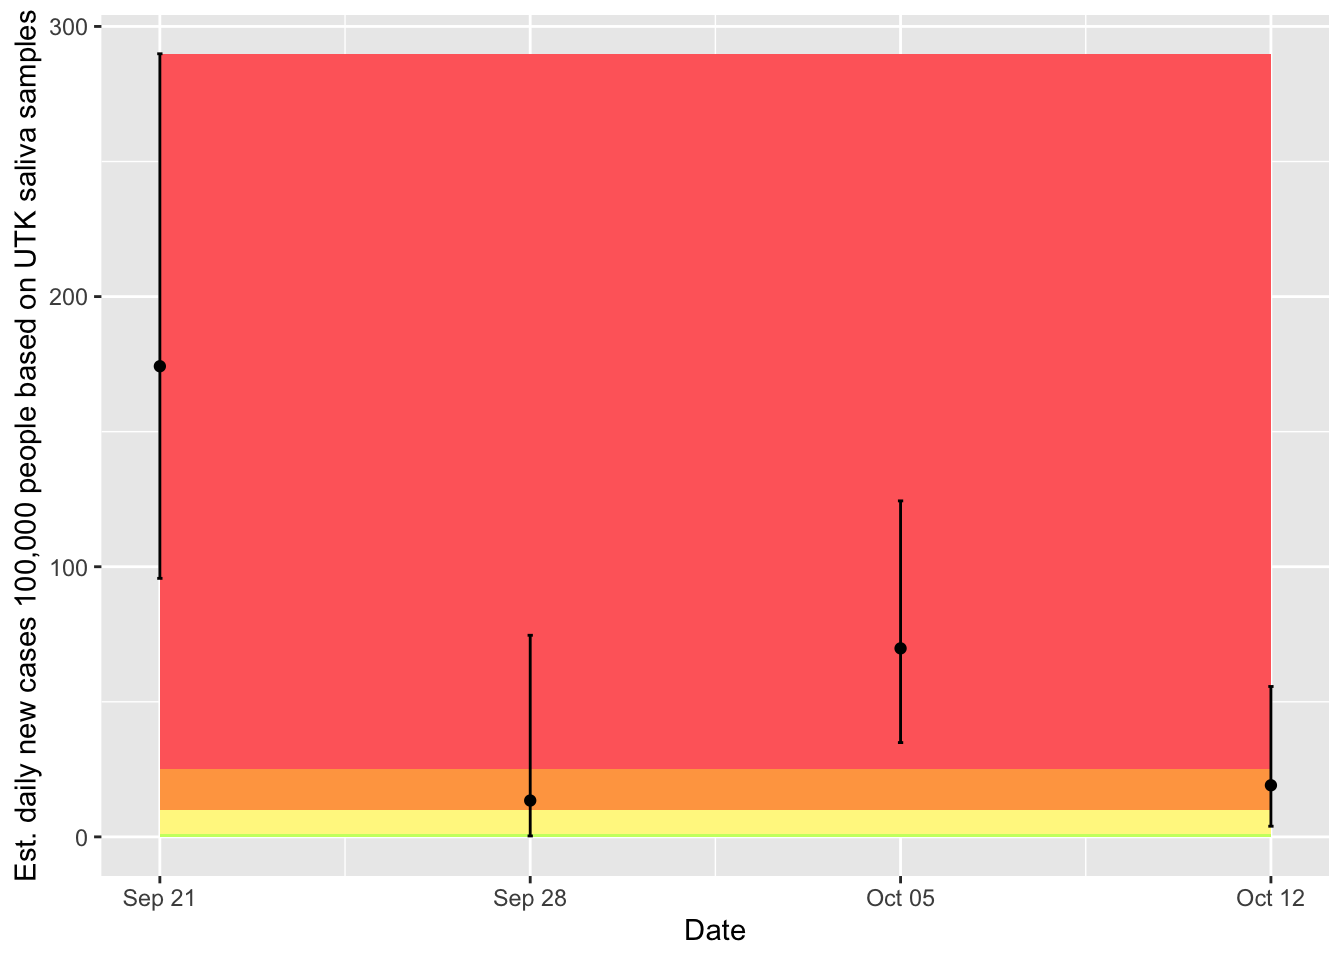
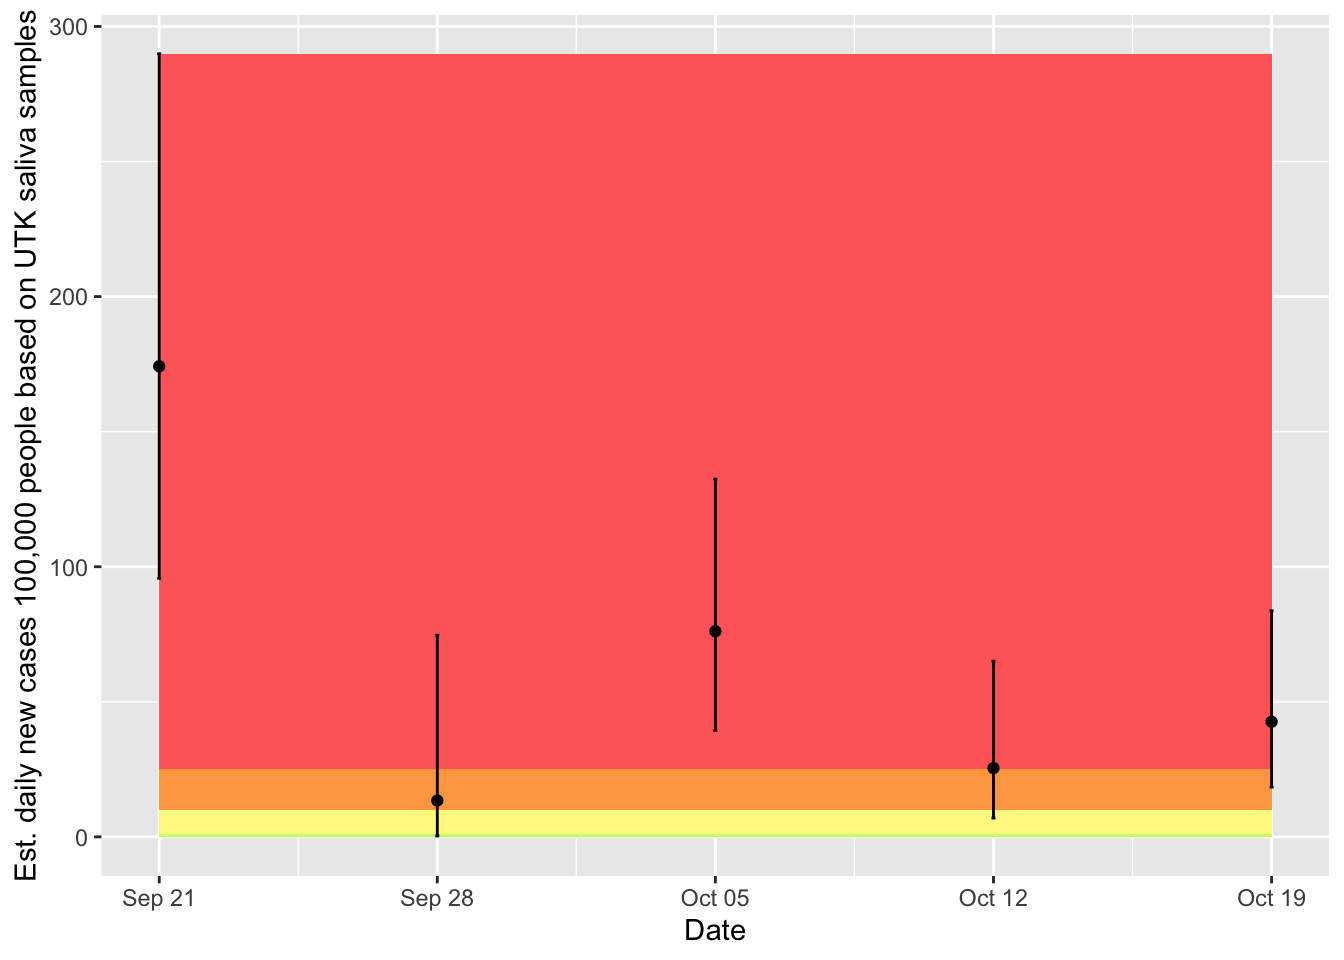
updating site

diff --git a/docs/covid.html b/docs/covid.html
@@ -426,7 +426,7 @@ $(document).ready(function () {
 <li>Info about cases at <a href="#ut">U. of Tennessee, Knoxville</a> (using public information only)</li>
 <li><a href="#webcams">Webcams</a> showing activity at local sites, though not quite at the resolution to point to mask usage or not</li>
 </ul>
-<p>The following plots are created in R using data from <a href="https://covid19datahub.io" class="uri">https://covid19datahub.io</a> (Guidotti, E., Ardia, D., (2020), “COVID-19 Data Hub”, Working paper, doi: 10.13140/RG.2.2.11649.81763), as well as information from Google and the <a href="https://www.tn.gov/health/cedep/ncov/data/downloadable-datasets.html">state of Tennessee dataset page</a> and plotting and analysis using the <code>forecast</code>, <code>ggplot2</code>, <code>reshape2</code>, and <code>dplyr</code> packages. Plots created on 2020-10-27 12:25:56. I use a seven day rolling average for most plots using the <code>geom_ma</code> function of <code>tidyquant</code>.</p>
+<p>The following plots are created in R using data from <a href="https://covid19datahub.io" class="uri">https://covid19datahub.io</a> (Guidotti, E., Ardia, D., (2020), “COVID-19 Data Hub”, Working paper, doi: 10.13140/RG.2.2.11649.81763), as well as information from Google and the <a href="https://www.tn.gov/health/cedep/ncov/data/downloadable-datasets.html">state of Tennessee dataset page</a> and plotting and analysis using the <code>forecast</code>, <code>ggplot2</code>, <code>reshape2</code>, and <code>dplyr</code> packages. Plots created on 2020-10-27 13:29:39. I use a seven day rolling average for most plots using the <code>geom_ma</code> function of <code>tidyquant</code>.</p>
 <h2 id="cases">
 Cases
 </h2>
@@ -487,11 +487,12 @@ University of Tennessee, Knoxville
 <iframe width="600" height="225" src="https://datastudio.google.com/embed/reporting/dd6254bd-e3f4-4636-9fc8-3116bc64e033/page/auKkB" frameborder="0" style="border:0" allowfullscreen>
 </iframe>
 <p>Testing at UT is also a question. The plot below shows reported number of tests at the student health center, based on data aggregated by Alex Zukowski (see above). Note that these are the raw number of reported tests: a value of 20 means out of all 30,0000 UTK students, only 20 individuals were tested that day at the student health center. Not included here are athletes, who have much more frequent testing.</p>
-<p>The red line on the plot shows the date of a <a href="https://www.wvlt.tv/2020/09/15/covid-19-pacts-happening-among-ut-students/">news story about covid pacts among students to avoid getting tested locally so they could avoid quarantine or isolation</a>. Spread by infected individuals matters, even if they personally are asymptomatic, so personal actions to avoid testing and quarantine / isolation can lead to disease spread to others who might not be so lucky, so it’s very disappointing to hear of this. The drop in testing after that line may be purely coincidental, but it is a remarkable change in trend. Other universities test more intensely; for example, <a href="https://splunk-public.machinedata.illinois.edu/en-US/app/uofi_shield_public_APP/home">U. of Illinois tests several thousand per day, not a few dozen</a>. Not being an epidemiologist I do not want to weigh in on what strategy is optimal, but it is a remarkable contrast in approaches.</p>
+<p>The red line on the plot shows the date of a <a href="https://www.wvlt.tv/2020/09/15/covid-19-pacts-happening-among-ut-students/">news story about covid pacts among students to avoid getting tested locally so they could avoid quarantine or isolation</a>. Spread by infected individuals matters, even if they personally are asymptomatic, so personal actions to avoid testing and quarantine / isolation can lead to disease spread to others who might not be so lucky, so it’s very disappointing to hear of this. The drop in testing after that line may be purely coincidental, but it is a remarkable change in trend. Other universities test more intensely; for example, <a href="https://splunk-public.machinedata.illinois.edu/en-US/app/uofi_shield_public_APP/home">U. of Illinois tests several thousand per day, not a few dozen</a>. Not being an epidemiologist I do not want to weigh in on what strategy is optimal, but it is a remarkable contrast in approaches. UT is also starting to report on mandatory saliva-based testing, where they ask everyone residing in a dorm for a saliva sample, pool 3-5 individuals in a tube, test each tube, and then bring back individuals from pools that tested positive for individual testing. From 19.1 to 28.3 percent of the students listed as being in these dorms do not contribute samples.</p>
 <p><img src="covid_files/figure-html/plotstestingut-1.png" width="672" /></p>
 <p>As for the county data, the positivity rate can also be important: if all the tests show up positive, likey symptomatic, cases, then there are likely other people being missed. The <i>New York Times</i> <a href="https://www.nytimes.com/2020/07/14/us/coronavirus-schools-fall.html">reports</a> on July 14, 2020, that, “As education leaders decide whether to reopen classrooms in the fall amid a raging pandemic, many are looking to a standard generally agreed upon among epidemiologists: To control community spread of the coronavirus, the average daily infection rate among those who are tested should not exceed 5 percent.” The horizontal black line below shows that guidance. The CDC provides thoughts about possible testing strategies at colleges and universities <a href="https://www.cdc.gov/coronavirus/2019-ncov/community/colleges-universities/ihe-testing.html#when-to-test">here</a> but not a firm number for how much testing they believe is necessary.</p>
 <p><img src="covid_files/figure-html/plotsutkproportion-1.png" width="672" /></p>
-<p>We can also use the UTK saliva data to estimate the number of new cases: the proportion of students who ultimately test postive out of those tested by the saliva scans. Given poor compliance, the true proportions may be much higher than this (if students want to endanger others by not isolating, they may avoid testing if they think they have been exposed). Depending on the date of the test, between 1 of every 41 to 1 of every 531 of students who contributed samples had active covid infections.</p>
+<p>We can also use the UTK saliva data to estimate the number of new cases: the proportion of students who ultimately test postive out of those tested by the saliva scans. Given poor compliance, the true proportions may be much higher than this (if students want to endanger others by not isolating, they may avoid testing if they think they have been exposed). Depending on the date of the test, between 1 of every Inf to 1 of every -Inf of students who contributed samples had active covid infections.</p>
+<p>At the date of the most recent set of samples, from 2020-10-19, UTK reported 40 active cases overall (this presumably includes the 8 positive diagnostic tests from the sampling). If the pool of students from this sample, Clement, Volunteer, Laurel, Makeup tests, which has a participation rate of , 77.5 percent, is representative of the 30,000 person student body as a whole, that would mean there would be 179 actual active cases among the students on that date.</p>
 <p>I am converting the saliva test info to new cases per 100K to correspond with the <a href="https://globalepidemics.org/key-metrics-for-covid-suppression/">Harvard Global Health Institute’s</a> standards for guidance of control (yellow is community spread; red is the highest risk possible in their guidance – for a county, that would mean “stay-at-home orders necessary” according to them, though how that translates into actions on a college campus is different). These guidelines are for daily new cases but the saliva data are active cases at a point in time. I am adopting the assumption that Knox County uses that new cases are only active for 14 days, so I’m computing the new case estimate as 1/14 the active case estimate. The green, yellow, and orange bands are the same as for Knox and Anderson+Roane counties above; the red band looks much thicker because it has the same lower bound as the others but no maximum, and some of the estimates for UTK are outside the range for the county-wide data. I include the 95% confidence interval for the estimate of new cases per 100,000 people, though this is an underestimate of the uncertainty (are dorms good random samples or are results clustered, are students who refuse testing similar to those who get tested, etc.).</p>
 <p><img src="covid_files/figure-html/plotsaliva100k-1.png" width="672" /></p>
 <hr />

diff --git a/docs/covid2.html b/docs/covid2.html
@@ -426,7 +426,7 @@ $(document).ready(function () {
 <li>Info about cases at <a href="#ut">U. of Tennessee, Knoxville</a> (using public information only)</li>
 <li><a href="#webcams">Webcams</a> showing activity at local sites, though not quite at the resolution to point to mask usage or not</li>
 </ul>
-<p>The following plots are created in R using data from <a href="https://covid19datahub.io" class="uri">https://covid19datahub.io</a> (Guidotti, E., Ardia, D., (2020), “COVID-19 Data Hub”, Working paper, doi: 10.13140/RG.2.2.11649.81763), as well as information from Google and the <a href="https://www.tn.gov/health/cedep/ncov/data/downloadable-datasets.html">state of Tennessee dataset page</a> and plotting and analysis using the <code>forecast</code>, <code>ggplot2</code>, <code>reshape2</code>, and <code>dplyr</code> packages. Plots created on 2020-10-27 12:27:45. I use a seven day rolling average for most plots using the <code>geom_ma</code> function of <code>tidyquant</code>.</p>
+<p>The following plots are created in R using data from <a href="https://covid19datahub.io" class="uri">https://covid19datahub.io</a> (Guidotti, E., Ardia, D., (2020), “COVID-19 Data Hub”, Working paper, doi: 10.13140/RG.2.2.11649.81763), as well as information from Google and the <a href="https://www.tn.gov/health/cedep/ncov/data/downloadable-datasets.html">state of Tennessee dataset page</a> and plotting and analysis using the <code>forecast</code>, <code>ggplot2</code>, <code>reshape2</code>, and <code>dplyr</code> packages. Plots created on 2020-10-27 13:31:30. I use a seven day rolling average for most plots using the <code>geom_ma</code> function of <code>tidyquant</code>.</p>
 <h2 id="cases">
 Cases
 </h2>
